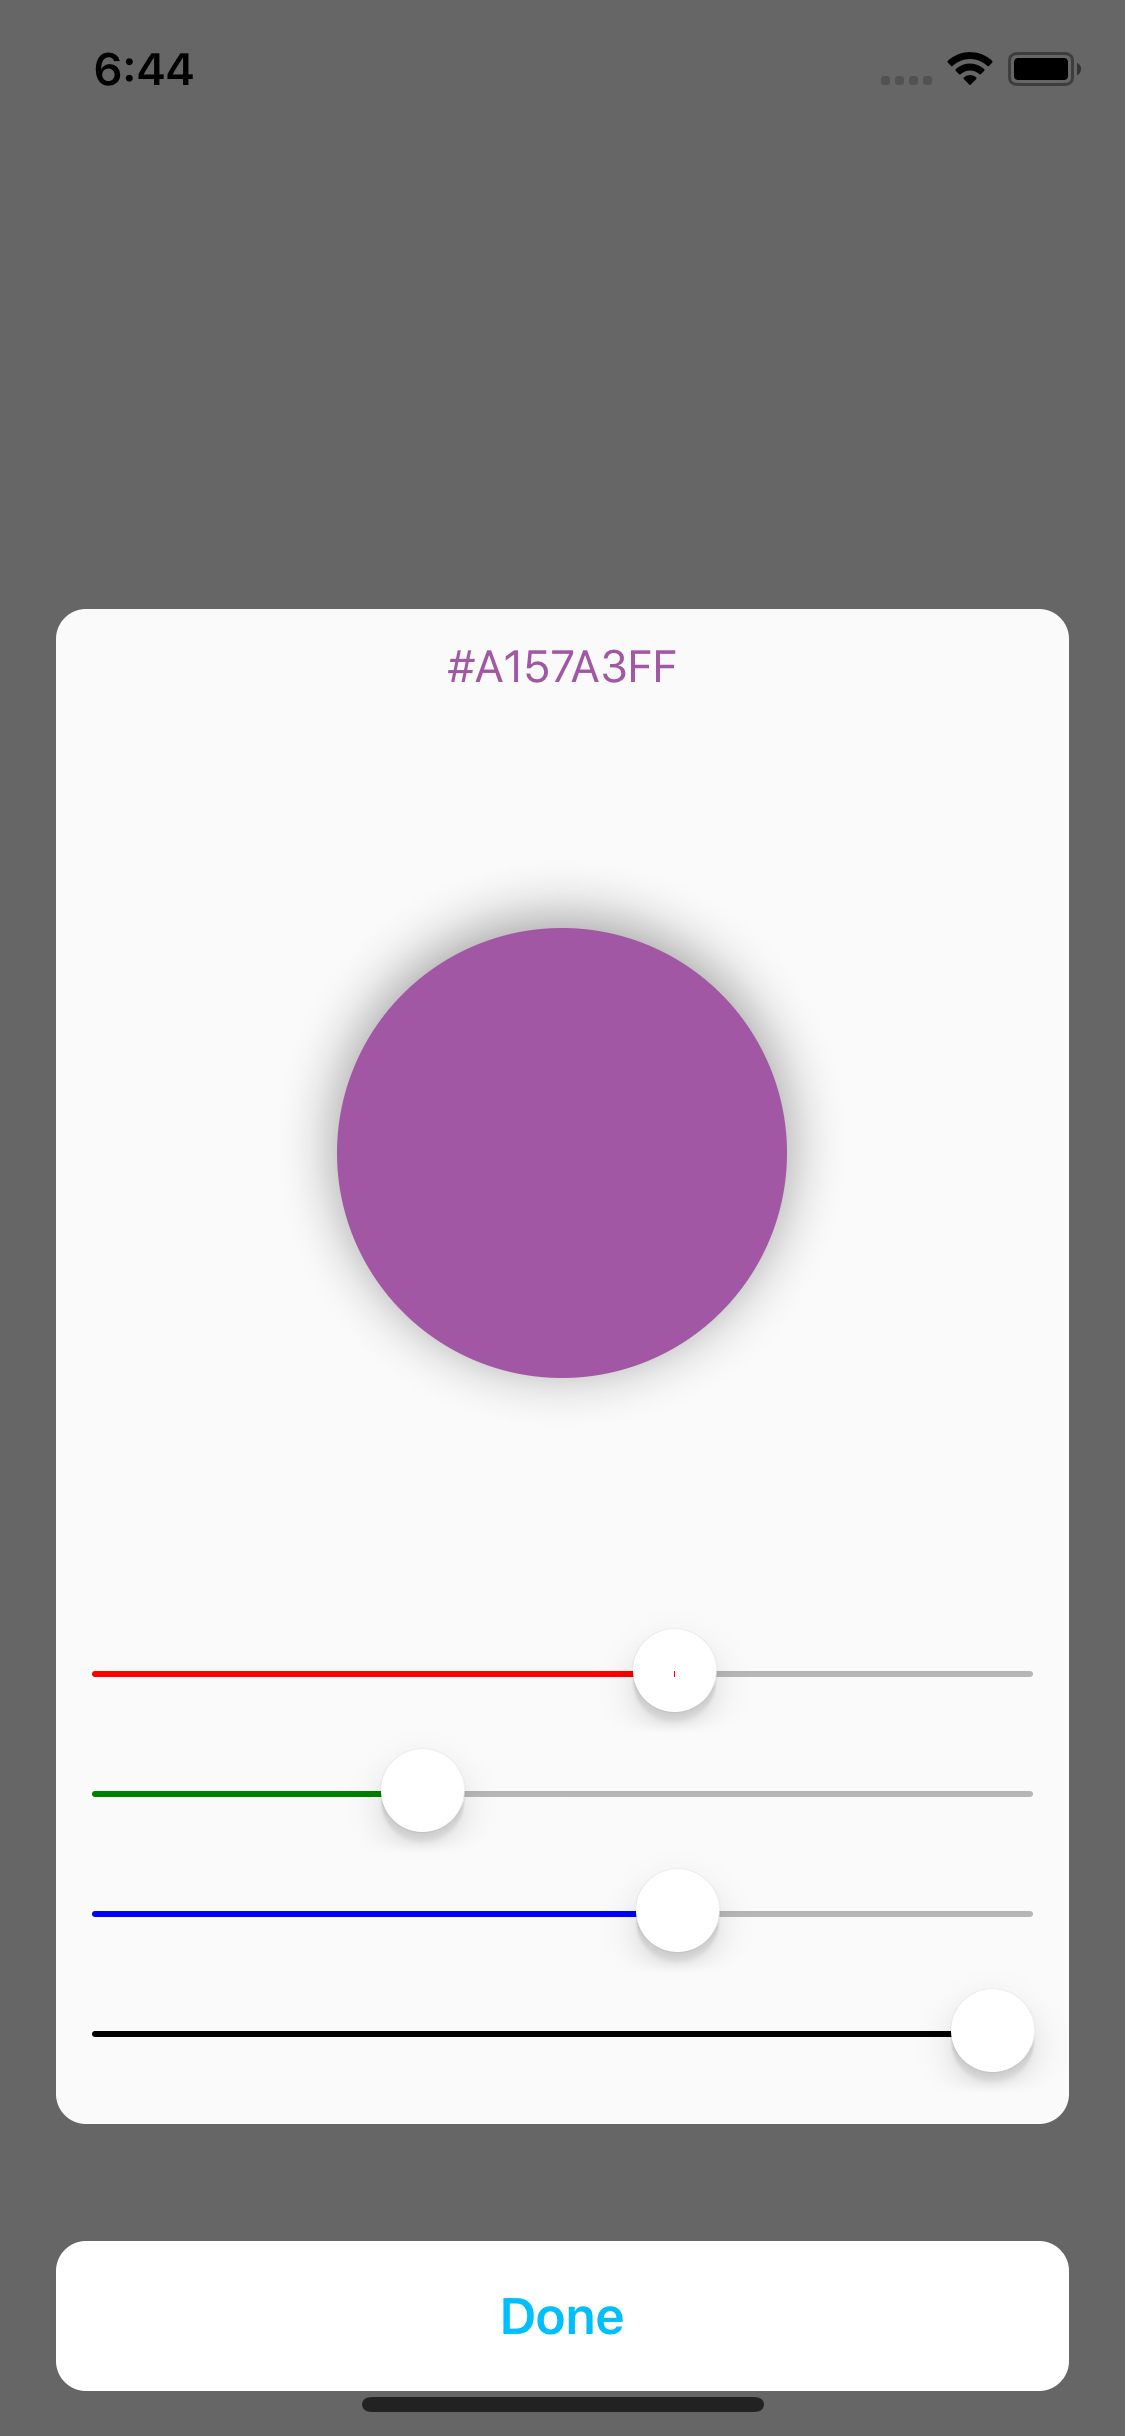
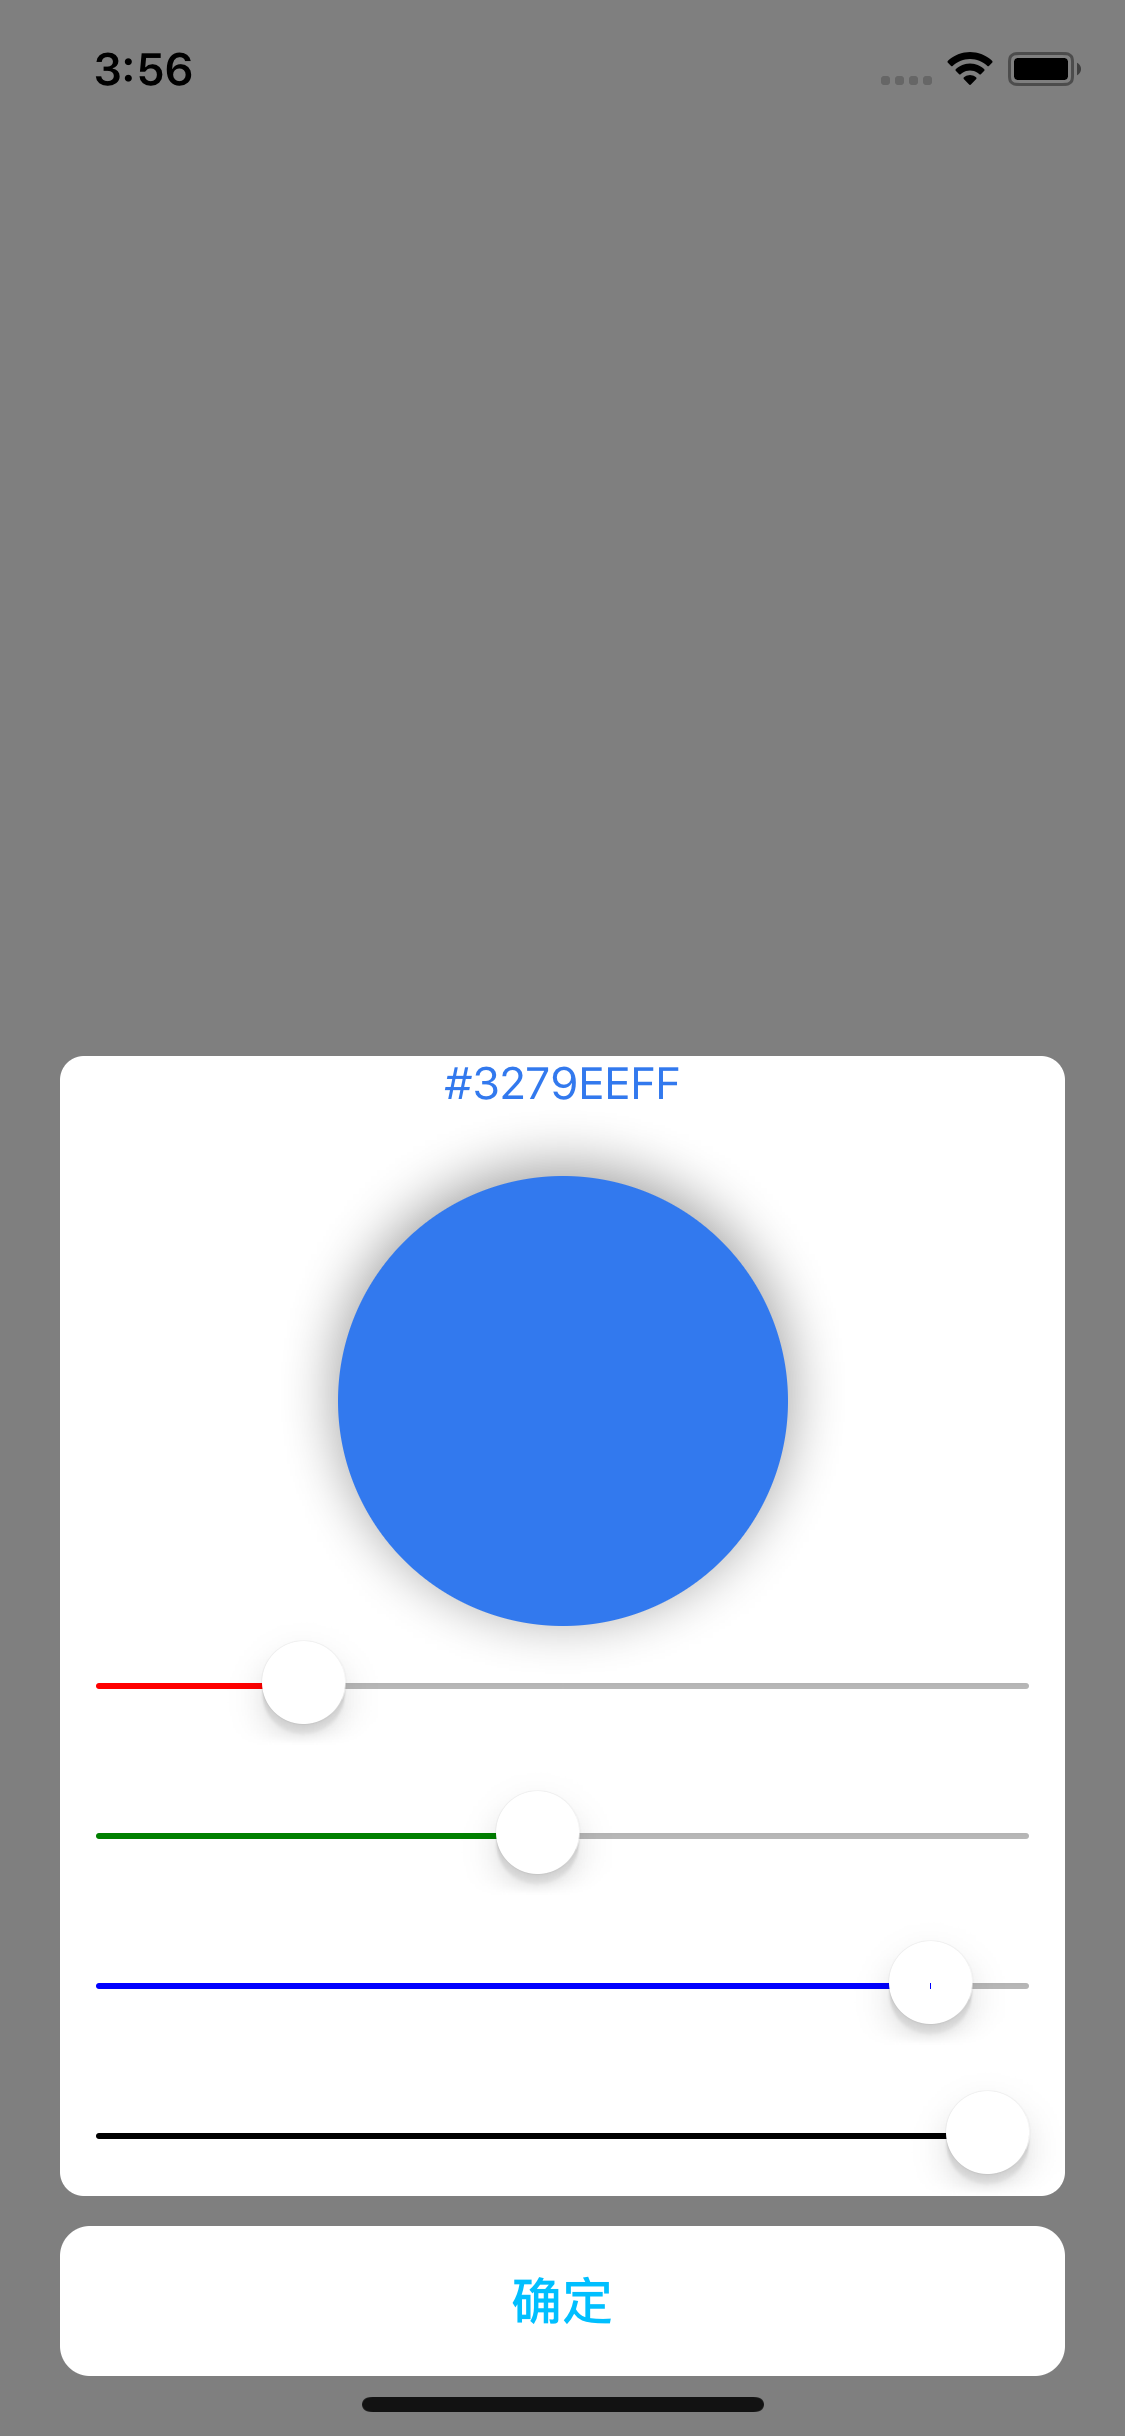
minor fixed

diff --git a/views/UISearchBar.js b/views/UISearchBar.js
@@ -30,6 +30,7 @@ export default class SearchBar extends React.Component {
     backgroundColor: PropTypes.string,
 
     // TextInput
+    textColor: PropTypes.string,
     textInputProps: PropTypes.object,
     onChangeText: PropTypes.func,
     onSubmitEditing: PropTypes.func,
@@ -95,6 +96,7 @@ export default class SearchBar extends React.Component {
     let inputStyle = {
       flex: 1,
       marginLeft: ios ? 5 : 0,
+      color: this.props.textColor || "black",
       textAlign: textValue || onFocus ? "left" : "center"
     };
 
@@ -109,7 +111,6 @@ export default class SearchBar extends React.Component {
           value={textValue}
           returnKeyType="search"
           returnKeyLabel="搜索"
-          selectionColor="grey"
           onChangeText={this._changeText}
           onSubmitEditing={this._submitEditing}
           underlineColorAndroid={CLEAR_COLOR}
@@ -121,7 +122,7 @@ export default class SearchBar extends React.Component {
 
   _renderClearButton = (clearButtonMode, textValue) => {
     let showClearButton = textValue && this.state.onFocus;
-    if (clearButtonMode === "while-editing" && showClearButton) {
+    if (clearButtonMode === "while-editing" && showClearButton && !ios) {
       let buttonStyle = {
         top: ios ? 7 : 12,
         right: 10,

diff --git a/ColorPicker.js b/ColorPicker.js
@@ -91,7 +91,7 @@ class ColorPickerContent extends Component {
   _renderContents = () => {
     let { translate } = this.state;
     let contentStyle = {
-      height: 445,
+      height: 480,
       padding: 20,
       overflow: "hidden",
       justifyContent: "space-between",
@@ -177,14 +177,17 @@ class ColorPickerContent extends Component {
     return (
       <View style={slidersContainerStyle}>
         <Slider
+          thumbTintColor="red"
           minimumTrackTintColor="red"
           onValueChange={this._onRValueChange}
         />
         <Slider
+          thumbTintColor="green"
           minimumTrackTintColor="green"
           onValueChange={this._onGValueChange}
         />
         <Slider
+          thumbTintColor="blue"
           minimumTrackTintColor="blue"
           onValueChange={this._onBValueChange}
         />

diff --git a/README.md b/README.md
@@ -141,9 +141,12 @@ import { TextFieldPicker } from 'react-native-alert-pickers'
         <Text
           onPress={() =>
             this.picker.show({
+              title: "标题",
+              message: "信息",
               textFieldsOption: [
-                { key: "first", placeholder: "The first param" },
-                { key: "second", placeholder: "The second param" }
+                { key: "username", placeholder: "请输入用户名" },
+                { key: "password", placeholder: "请输密码" },
+                { key: "cpassword", placeholder: "确认密码" }
               ],
               onSubmitEditing: values => alert(JSON.stringify(values))
             })
@@ -266,6 +269,7 @@ import { SimpleAlert } from 'react-native-alert-pickers'
 | `barWidth`         | `number/string` |        default: `'100%'`        | 搜索框宽度              |
 | `tintColor`        | `string`        | default: `'rgb(220, 220, 220)'` | 搜索框背景色            |
 | `backgroundColor`  | `string`        |         default `white`         | 搜索框容器视图背景色    |
+| `textColor`        | `string`        |             `black`             | 字体颜色                |
 | `textInputProps`   | `object`        |               无                | 支持很多 TextInput 属性 |
 | `onChangeText`     | `text => void`  |               无                | 输入字串改变回调        |
 | `onSubmitEditing`  | `text => void`  |               无                | 点击提交按钮回调        |
@@ -281,11 +285,16 @@ import { SearchBar } from 'react-native-alert-pickers'
 <View style={{ flex: 1, alignItems: "center", justifyContent: "center" }}>
     <SearchBar
         barWidth="100%"
-        tintColor="orange"
-        backgroundColor="grey"
-        textInputProps={{ placeholder: "输入搜索内容" }}
+        tintColor="white"
+        backgroundColor="darkgray"
+        textInputProps={{
+            placeholder: "输入搜索内容",
+            selectionColor: "red",
+            placeholderTextColor: "blue"
+        }}
+        textColor="orange"
+        cancelTitleColor="white"
         cancelTitle="Cancel"
-        cancelTitleColor="red"
     />
 </View>
 ```
